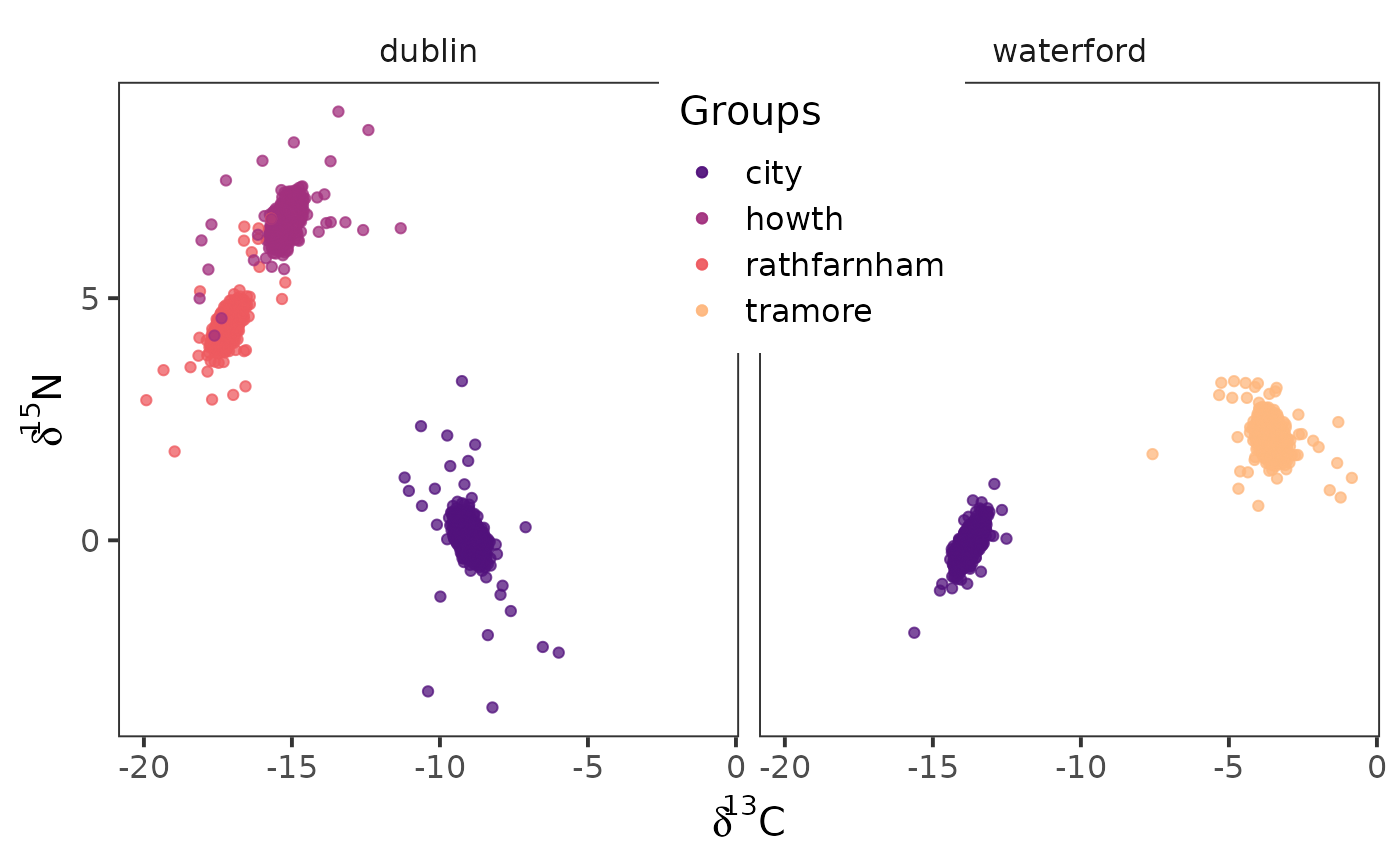
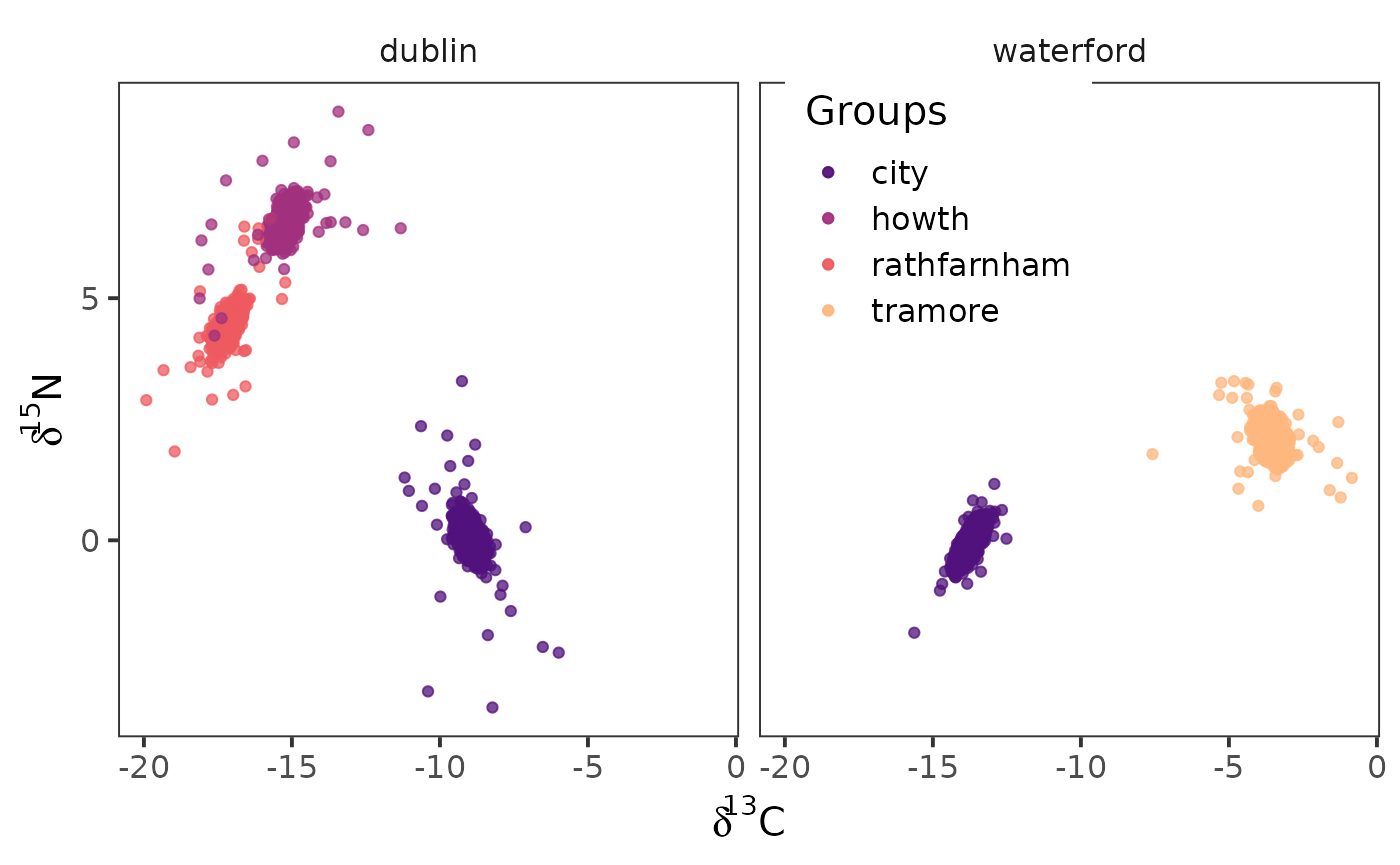
Deploying to gh-pages from @ benjaminhlina/nichetools@2a129122102efc4e1cc85d42c3904df039103605 🚀

diff --git a/articles/using-nichetools-with-the-package-SIBER.html b/articles/using-nichetools-with-the-package-SIBER.html
@@ -199,7 +199,7 @@ stucture.</p>
 <span>    strip.background <span class="op">=</span> <span class="fu"><a href="https://ggplot2.tidyverse.org/reference/element.html" class="external-link">element_blank</a></span><span class="op">(</span><span class="op">)</span>,</span>
 <span>    panel.grid <span class="op">=</span> <span class="fu"><a href="https://ggplot2.tidyverse.org/reference/element.html" class="external-link">element_blank</a></span><span class="op">(</span><span class="op">)</span>, </span>
 <span>    legend.position <span class="op">=</span> <span class="st">"inside"</span>,</span>
-<span>    legend.position.inside <span class="op">=</span> <span class="fu"><a href="https://rdrr.io/r/base/c.html" class="external-link">c</a></span><span class="op">(</span><span class="fl">0.55</span>, <span class="fl">0.8</span><span class="op">)</span></span>
+<span>    legend.position.inside <span class="op">=</span> <span class="fu"><a href="https://rdrr.io/r/base/c.html" class="external-link">c</a></span><span class="op">(</span><span class="fl">0.65</span>, <span class="fl">0.8</span><span class="op">)</span></span>
 <span>  <span class="op">)</span> <span class="op">+</span> </span>
 <span>  <span class="fu"><a href="https://ggplot2.tidyverse.org/reference/labs.html" class="external-link">labs</a></span><span class="op">(</span></span>
 <span>    x <span class="op">=</span> <span class="fu"><a href="https://rdrr.io/r/base/expression.html" class="external-link">expression</a></span><span class="op">(</span><span class="fu"><a href="https://rdrr.io/r/base/paste.html" class="external-link">paste</a></span><span class="op">(</span><span class="va">delta</span><span class="op">^</span><span class="fl">13</span>,<span class="st">"C"</span><span class="op">)</span><span class="op">)</span>, </span>
@@ -307,7 +307,7 @@ are correct by plotting them with {ggplot2}</p>
 <span>    strip.background <span class="op">=</span> <span class="fu"><a href="https://ggplot2.tidyverse.org/reference/element.html" class="external-link">element_blank</a></span><span class="op">(</span><span class="op">)</span>,</span>
 <span>    panel.grid <span class="op">=</span> <span class="fu"><a href="https://ggplot2.tidyverse.org/reference/element.html" class="external-link">element_blank</a></span><span class="op">(</span><span class="op">)</span>, </span>
 <span>    legend.position <span class="op">=</span> <span class="st">"inside"</span>,</span>
-<span>    legend.position.inside <span class="op">=</span> <span class="fu"><a href="https://rdrr.io/r/base/c.html" class="external-link">c</a></span><span class="op">(</span><span class="fl">0.55</span>, <span class="fl">0.8</span><span class="op">)</span></span>
+<span>    legend.position.inside <span class="op">=</span> <span class="fu"><a href="https://rdrr.io/r/base/c.html" class="external-link">c</a></span><span class="op">(</span><span class="fl">0.65</span>, <span class="fl">0.8</span><span class="op">)</span></span>
 <span>  <span class="op">)</span> <span class="op">+</span> </span>
 <span>  <span class="fu"><a href="https://ggplot2.tidyverse.org/reference/labs.html" class="external-link">labs</a></span><span class="op">(</span></span>
 <span>    x <span class="op">=</span> <span class="fu"><a href="https://rdrr.io/r/base/expression.html" class="external-link">expression</a></span><span class="op">(</span><span class="fu"><a href="https://rdrr.io/r/base/paste.html" class="external-link">paste</a></span><span class="op">(</span><span class="va">delta</span><span class="op">^</span><span class="fl">13</span>,<span class="st">"C"</span><span class="op">)</span><span class="op">)</span>, </span>
